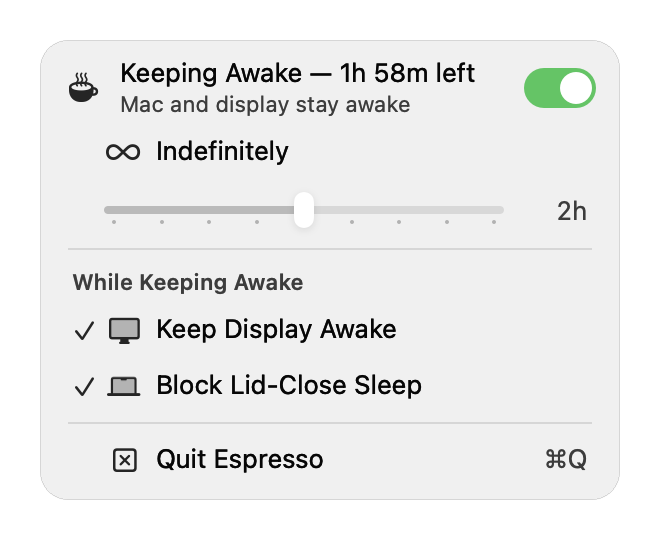
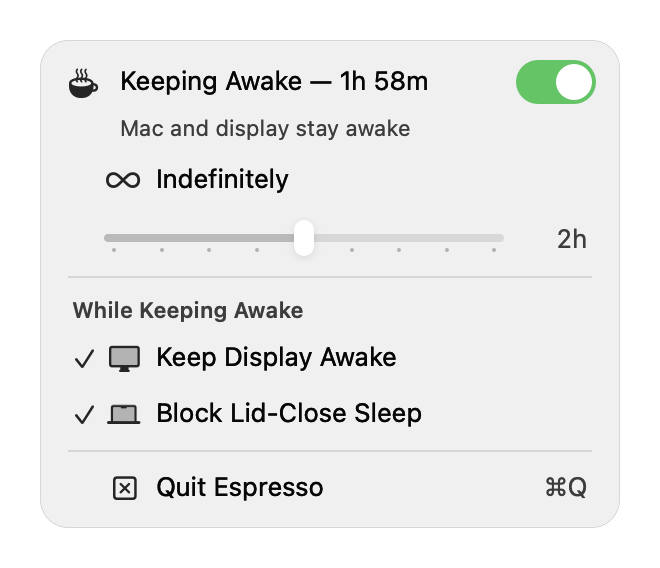
Two-line header: full-width detail line below the switch, title drops 'left'

diff --git a/Sources/Espresso/AppDelegate.swift b/Sources/Espresso/AppDelegate.swift
@@ -150,10 +150,11 @@ final class AppDelegate: NSObject, NSApplicationDelegate, NSMenuDelegate {
     }
 
     private func makeHeaderRow() -> NSView {
-        // 290 wide so the two-line status text and the switch never collide.
-        let container = NSView(frame: NSRect(x: 0, y: 0, width: 290, height: 36))
+        // Two lines: icon + title + switch on top; the detail line below at
+        // full width so it never collides with the (wide) real switch.
+        let container = NSView(frame: NSRect(x: 0, y: 0, width: 290, height: 50))
 
-        let icon = NSImageView(frame: NSRect(x: 14, y: 9, width: 18, height: 18))
+        let icon = NSImageView(frame: NSRect(x: 14, y: 27, width: 18, height: 18))
         icon.imageScaling = .scaleProportionallyUpOrDown
         icon.symbolConfiguration = NSImage.SymbolConfiguration(pointSize: 14, weight: .medium)
         icon.contentTintColor = .labelColor
@@ -163,14 +164,14 @@ final class AppDelegate: NSObject, NSApplicationDelegate, NSMenuDelegate {
         title.font = .systemFont(ofSize: 13)
         title.textColor = .labelColor
         title.lineBreakMode = .byTruncatingTail
-        title.frame = NSRect(x: 38, y: 18, width: 196, height: 16)
+        title.frame = NSRect(x: 38, y: 28, width: 180, height: 16)
         container.addSubview(title)
 
         let subtitle = NSTextField(labelWithString: "")
         subtitle.font = .systemFont(ofSize: 11)
         subtitle.textColor = .secondaryLabelColor
         subtitle.lineBreakMode = .byTruncatingTail
-        subtitle.frame = NSRect(x: 38, y: 4, width: 196, height: 13)
+        subtitle.frame = NSRect(x: 38, y: 6, width: 238, height: 13)
         container.addSubview(subtitle)
 
         let toggle = NSSwitch()
@@ -179,7 +180,7 @@ final class AppDelegate: NSObject, NSApplicationDelegate, NSMenuDelegate {
         toggle.action = #selector(headerSwitchChanged(_:))
         toggle.sizeToFit()
         toggle.setFrameOrigin(NSPoint(x: 290 - 12 - toggle.frame.width,
-                                      y: (36 - toggle.frame.height) / 2))
+                                      y: 50 - toggle.frame.height - 5))
         toggle.setAccessibilityLabel("Keep awake")
         container.addSubview(toggle)
 
@@ -398,7 +399,7 @@ final class AppDelegate: NSObject, NSApplicationDelegate, NSMenuDelegate {
         if !active {
             headerTitleLabel.stringValue = "Not Keeping Awake"
         } else if let remaining = keepAwake.remaining {
-            headerTitleLabel.stringValue = "Keeping Awake — \(Self.format(remaining)) left"
+            headerTitleLabel.stringValue = "Keeping Awake — \(Self.format(remaining))"
         } else {
             headerTitleLabel.stringValue = "Keeping Awake — Indefinitely"
         }
